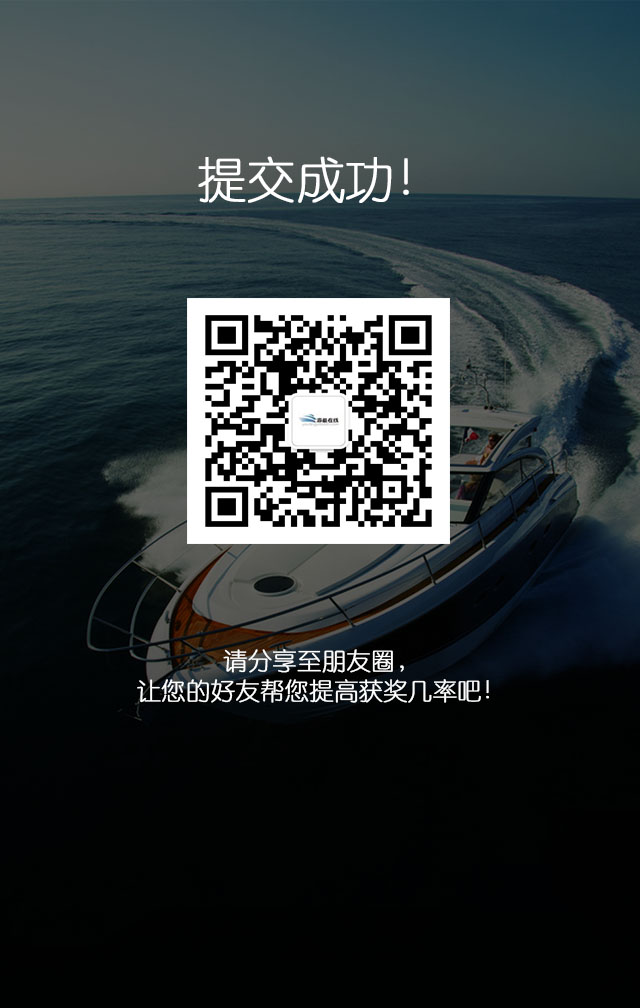
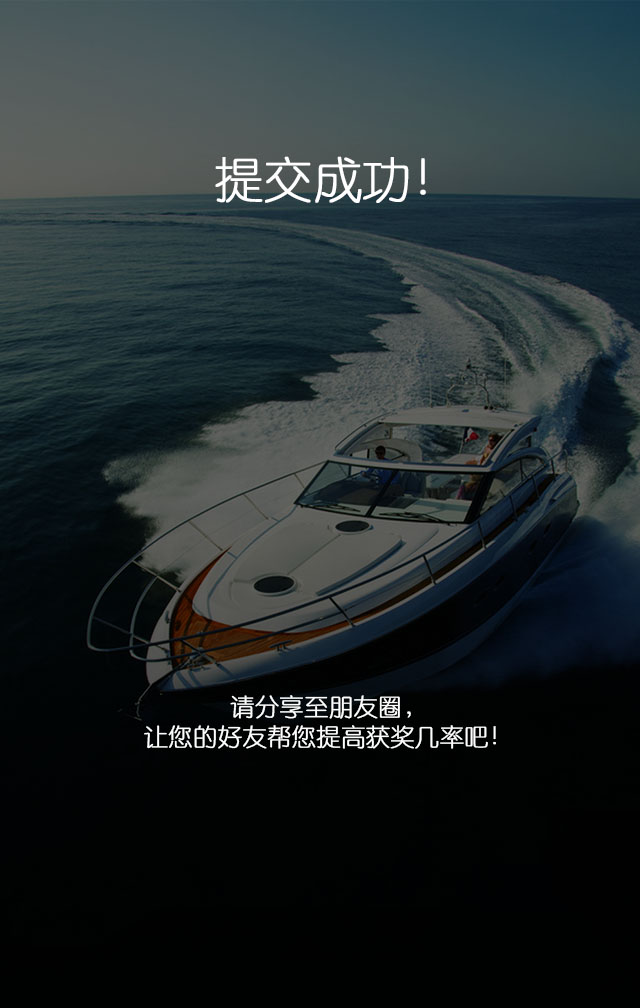
独立的二维码图, 删除音乐, 添加分享图标

Changed region(s): [[0.2812, 0.2768, 0.7188, 0.5536], [0.2188, 0.6458, 0.7812, 0.7381], [0.3125, 0.1538, 0.6875, 0.2153]]

diff --git a/wp-content/themes/tinghaowan/css/main.css b/wp-content/themes/tinghaowan/css/main.css
@@ -60,7 +60,7 @@ body h1,body h2,body h3,body h4,body h5,body h6,body strong,body em {font-weight
 textarea:focus,input:focus { border: 1px solid #71b643; }
 
 /*sprite图片合并*/
-.css_sprite01 { background-image:url(../images/css_sprite01.png)!important;  background-repeat: no-repeat!important; } 
+.css_sprite01 { background-image:url('../images/css_sprite01.png?var=2')!important;  background-repeat: no-repeat!important; } 
 
 /**
  * = function 功能样式

diff --git a/wp-content/themes/tinghaowan/index.php b/wp-content/themes/tinghaowan/index.php
@@ -92,7 +92,9 @@ if(isset($_POST['attend'])){
 				</div>
 				<?php }else{ ?>
 				<div class="m-page">
-					<div class="page-con lazy-finish"style="background-image: url('<?=get_stylesheet_directory_uri()?>/images/page-5.jpg');"></div>
+					<div class="page-con lazy-finish"style="background-image: url('<?=get_stylesheet_directory_uri()?>/images/page-5.jpg?ver=2');">
+						<img class="qr-code" src="<?=get_stylesheet_directory_uri()?>/images/qr-code.png" style="display: block; margin: 50% auto;" />
+					</div>
 				</div>
 				<?php } ?>
 			</div>
@@ -103,7 +105,6 @@ if(isset($_POST['attend'])){
 		<script src="<?= get_stylesheet_directory_uri() ?>/js/99_main.js" type="text/javascript" charset="utf-8"></script>
 
 		<div style="text-align:center;margin:50px 0; font:normal 14px/24px 'MicroSoft YaHei';"></div>
-		<audio src="http://thw.unithinker.com/wp-content/uploads/2015/07/background-music.mp3" autoplay="true" hidden="true"></audio>
 		<script type="text/javascript" src="http://res.wx.qq.com/open/js/jweixin-1.0.0.js"></script>		
 		<script type="text/javascript">
 			
@@ -122,7 +123,7 @@ if(isset($_POST['attend'])){
 				wx.onMenuShareTimeline({
 					title: '<?=get_bloginfo('site_name')?>', // 分享标题
 					link: '<?=site_url()?>/?from_username=<?=$user_info->openid?>', // 分享链接
-					imgUrl: '', // 分享图标
+					imgUrl: '<?=get_stylesheet_directory_uri()?>/images/logo.jpg', // 分享图标
 					success: function () {
 						
 					},
@@ -135,7 +136,7 @@ if(isset($_POST['attend'])){
 					title: '<?=get_bloginfo('site_name')?>', // 分享标题
 					desc: '<?=site_url()?>/?from_username=<?=$user_info->openid?>',
 					link: '<?=site_url()?>/?from_username=<?=$user_info->openid?>', // 分享链接
-					imgUrl: '', // 分享图标
+					imgUrl: '<?=get_stylesheet_directory_uri()?>/images/logo.jpg', // 分享图标
 					success: function () {
 						
 					},
